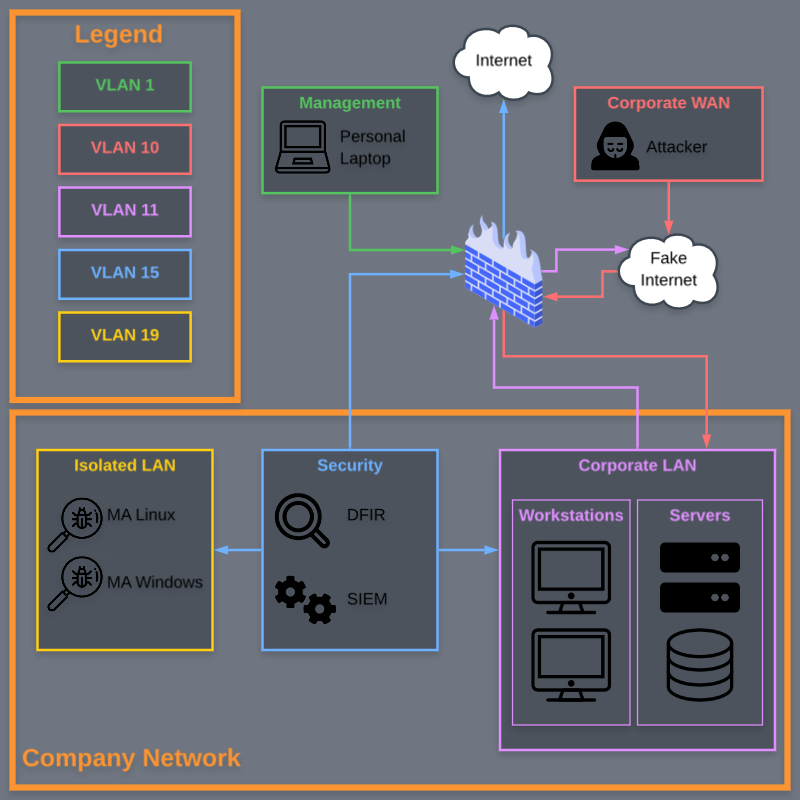
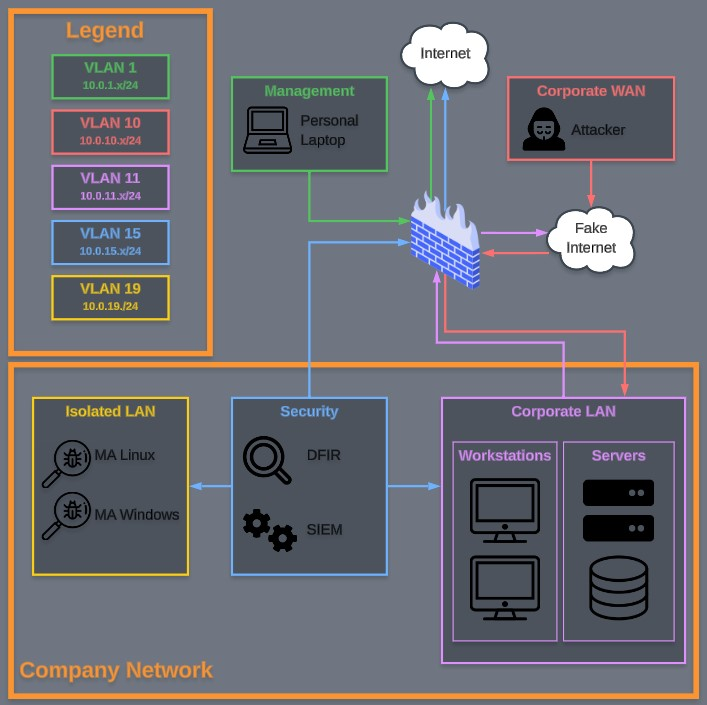
completed windows MA

diff --git a/_posts/2024-09-11-building-homelab-pt4.md b/_posts/2024-09-11-building-homelab-pt4.md
@@ -1,6 +1,38 @@
 ---
 layout: single
-title:  "Blue Team Homelab Part 4"
-date:   2024-09-11
+title:  "Blue Team Homelab Part 4 - Malware Analysis"
+date:   2024-09-24
 categories: Homelab
 ---
+
+For part 4 of building this homelab environment, we will focus on setting up our malware anaylsis device. 
+
+When it comes to building our isolated network for malware anaylsis, it is extremely important that we can analyze malicious files without any risk of the malware spreading to other virtual machines or your host machine outside of the contained VLAN. Oftentimes, malware will also try and establish a connection with other IPs over the internet, which is why it is so important that the malware is only allowed to run in an environment that is completed isolated from public internet connectivity.
+
+### Malware Analysis VM
+To handle malware anaylsis, we will be using Windows 10 with an MA distribution called [FlareVM](https://github.com/mandiant/flare-vm) installed on top of it. You can use Microsoft's [media creation tool](https://www.microsoft.com/en-us/software-download/windows10) to create a disk image of Windows, even if you don't have a valid license. Without a license, some personalization settings will be disabled, but this is not important for our use-case. 
+
+During the creation, ensure that the windows machine has at least 80GB of storage. Once you have downloaded FlareVM from github, it is highly advised that you create a snapshot of Windows because any errors during the long installation process of FlareVM will likely leave you with a broken version of Windows, in which case simply reverting back the snapshot will save you lots of time.
+
+Next, you will need to disable windows defender, otherwise it will prevent the FlareVM installation from running the necessary scripts to create and delete certain files. Windows defender is very persistent and difficult to fully disable, so I would recommend running this [script](https://github.com/ionuttbara/windows-defender-remover) in powershell as an administrator to remove it. The format ```.\fileName``` is used to execute a file in powershell. 
+
+With windows defender out of the way, we can begin the installation process. With powershell open as an administrator, we will execute: ```Set-ExecutionPolicy unrestricted``` to escalate the permissions for running scripts. When prompted, respond with Y. Next, cd to your flareVM folder and run ```.\install.ps1``` to begin the installation. 
+
+![powerShellFlareVM.jpg failed to load]({{ site.baseurl }}/assets/images/homelab/powerShellFlareVM.jpg)
+
+The installation process is quite long and can take up to a few hours to fully complete. Once it is completed, you will be presented with a desktop environment that should resemble the following:
+
+![flareVMDesktop.jpg failed to load]({{ site.baseurl }}/assets/images/homelab/flareVMDesktop.jpg)
+
+### Network Configuration
+Now that the installation is complete, we can change the VM interface to our isolated VLAN 19 and configure a static IP address for the machine.
+> Side note: if you run ```ipconfig``` in command prompt and see an "autoconfiguration IPv4 address" being assigned instead of the static one you set, you likely chose a static IP that was already reserved for another device.
+
+![flareVMNetwork.jpg failed to load]({{ site.baseurl }}/assets/images/homelab/flareVMNetwork.jpg)
+
+The last step before this machine is ready to perform MA is to find a way to safely send malware to this machine. If this machine had internet connectivity you could just download malicous files online, but this is generally a bad idea. Instead, we will open an SSH port so that our DFIR machine can send malicous files to this one using a tool called [WinSCP](https://winscp.net/eng/index.php).
+
+### Downloads Used for This Part
+* [Download FlareVM](https://github.com/mandiant/flare-vm)
+* [Download Windows](https://www.microsoft.com/en-us/software-download/windows10)
+* [Remove Windows Defender](https://github.com/ionuttbara/windows-defender-remover)

diff --git a/_posts/2024-09-18-cpp-week5.md b/_posts/2024-09-18-cpp-week5.md
@@ -8,7 +8,7 @@ categories: Cpp
 Week 5 of C++ projects for my CISC 192 course.
 
 ### Greatest Common Factor
-{% highlight cpp %}
+``` cpp
 #include <iostream>
 using namespace std;
 
@@ -31,10 +31,11 @@ int main()
 	cin >> num;
 	greatestFactor(num);
 }
-{% endhighlight %}
+```
 
 ### Printing a Diamond with Asterisks
-{% highlight cpp %}
+The biggest issue that I had with this project was trying to wrap my head around the nested iteration. This program will print a diamond out of asterisks 
+``` cpp
 void printDiamond(int height)
 {
 	if (height % 2 == 0)
@@ -77,4 +78,4 @@ int main()
 	printDiamond(height);
 	
 }
-{% endhighlight %}
+```

diff --git a/_posts/2024-09-04-building-homelab-pt2.md b/_posts/2024-09-04-building-homelab-pt2.md
@@ -1,7 +1,7 @@
 ---
 layout: single
 title:  "Blue Team Homelab Part 2 - Configuring the Firewall"
-date:   2024-09-04
+date:   2024-09-10
 categories: Homelab
 ---
 

diff --git a/_posts/2024-09-07-building-homelab-pt3.md b/_posts/2024-09-07-building-homelab-pt3.md
@@ -1,7 +1,7 @@
 ---
 layout: single
 title:  "Blue Team Homelab Part 3 - DFIR"
-date:   2024-09-07
+date:   2024-09-15
 categories: Homelab
 ---
 
